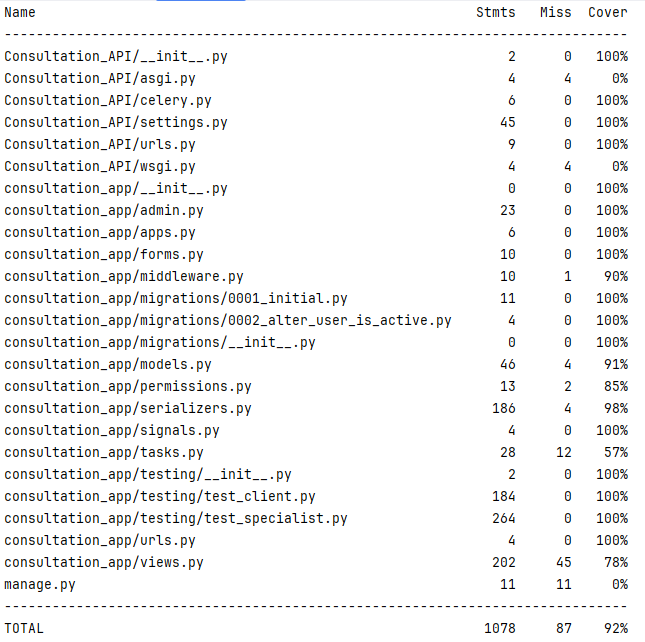
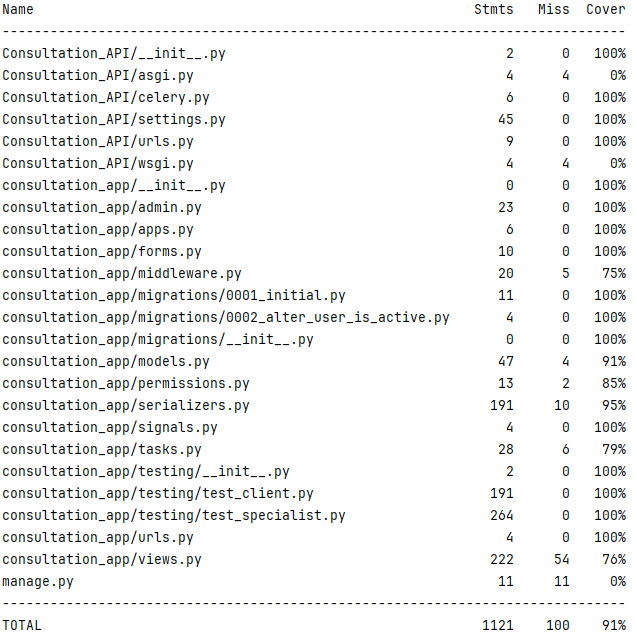
fixed the tests

Changed region(s): [[0.0, 0.0, 0.9843, 1.0], [0.3579, 0.5386, 0.3878, 0.5685], [0.3281, 0.2693, 0.3579, 0.2992]]

diff --git a/Consultation_API/consultation_app/testing/test_client.py b/Consultation_API/consultation_app/testing/test_client.py
@@ -122,7 +122,7 @@ class TestClientConsultationAPIView:
         response = authenticated_api_client.post(url, request_data)
 
         assert response.status_code == status.HTTP_400_BAD_REQUEST
-        assert response.data['message'] == 'Для данного слота уже существует подтверждённая консультация'
+        assert response.data['detail'] == 'Для данного слота уже существует подтверждённая консультация'
 
     def test_create_consultation_already_sent(self, user_client, authenticated_api_client, valid_slot):
         slot = Slot.objects.create(**valid_slot)
@@ -132,7 +132,7 @@ class TestClientConsultationAPIView:
         response = authenticated_api_client.post(url, request_data)
 
         assert response.status_code == status.HTTP_400_BAD_REQUEST
-        assert response.data['message'] == 'Вы уже отправили запрос на консультацию на эту дату'
+        assert response.data['detail'] == 'Вы уже отправили запрос на консультацию на эту дату'
 
     def test_create_consultation_invalid_date(self, authenticated_api_client, valid_slot):
         invalid_data = valid_slot.copy()
@@ -146,7 +146,7 @@ class TestClientConsultationAPIView:
         response = authenticated_api_client.post(url, request_data)
 
         assert response.status_code == status.HTTP_400_BAD_REQUEST
-        assert response.data['message'] == 'Дата и время консультации не могут быть ранее текущего времени'
+        assert response.data['detail'] == 'Дата и время консультации не могут быть ранее текущего времени'
 
     def test_create_consultation_invalid_id(self, authenticated_api_client):
         non_existent_slot_id = 9999
@@ -154,9 +154,8 @@ class TestClientConsultationAPIView:
         request_data = {'slot_id': non_existent_slot_id}
         response = authenticated_api_client.post(url, request_data)
 
-        assert response.status_code == status.HTTP_400_BAD_REQUEST
-        assert 'slot_id' in response.data
-        assert response.data['slot_id'][0] == 'Слота с таким id не существует'
+        assert response.status_code == status.HTTP_404_NOT_FOUND
+        assert response.data['detail'] == 'Слота с таким id не существует'
 
 
 @pytest.mark.django_db(transaction=True)
@@ -199,6 +198,8 @@ class TestClientConsultationListView:
 class TestCancelConsultationAPIView:
 
     def test_cancel_consultation_success(self, authenticated_api_client, consultation):
+        consultation.status = 'Accepted'
+        consultation.save()
         url = reverse('cancel-consultation')
         data = {
             'consultation_id': consultation.id,
@@ -213,6 +214,18 @@ class TestCancelConsultationAPIView:
         assert consultation.is_canceled is True
         assert consultation.cancel_comment == 'Some reason'
         assert consultation.cancel_reason_choice == 'Personal'
+
+    def test_cancel_consultation_not_accepted(self, authenticated_api_client, consultation):
+        url = reverse('cancel-consultation')
+        data = {
+            'consultation_id': consultation.id,
+            'cancel_comment': 'Some reason',
+            'cancel_reason': 'Personal'
+        }
+        response = authenticated_api_client.patch(url, data)
+
+        assert response.status_code == status.HTTP_400_BAD_REQUEST
+        assert response.data['detail'] == 'Можно отменить только принятую консультацию'
 
     def test_cancel_consultation_invalid_reason(self, authenticated_api_client, consultation):
         url = reverse('cancel-consultation')
@@ -248,10 +261,8 @@ class TestCancelConsultationAPIView:
 
         response = authenticated_api_client.patch(url, data)
 
-        assert response.status_code == status.HTTP_400_BAD_REQUEST
-        assert 'consultation_id' in response.data
-        assert response.data['consultation_id'][
-                   0] == 'Консультации с таким id не существует'
+        assert response.status_code == status.HTTP_404_NOT_FOUND
+        assert response.data['detail'] == 'Вашей консультации с таким id не существует'
 
     def test_cancel_consultation_invalid_client(self, authenticated_api_client, api_client, consultation):
         User = get_user_model()
@@ -271,8 +282,8 @@ class TestCancelConsultationAPIView:
 
         response = api_client.patch(url, data)
 
-        assert response.status_code == status.HTTP_403_FORBIDDEN
-        assert response.data['message'] == 'Вы не можете отменить эту консультацию, так как вы не являетесь её клиентом'
+        assert response.status_code == status.HTTP_404_NOT_FOUND
+        assert response.data['detail'] == 'Вашей консультации с таким id не существует'
 
     def test_cancel_consultation_not_client(self, authenticated_api_specialist, consultation):
         url = reverse('cancel-consultation')
@@ -286,6 +297,7 @@ class TestCancelConsultationAPIView:
         assert response.status_code == status.HTTP_403_FORBIDDEN
 
     def test_cancel_consultation_already_canceled(self, authenticated_api_client, consultation):
+        consultation.status = 'Accepted'
         consultation.is_canceled = True
         consultation.save()
 
@@ -298,4 +310,4 @@ class TestCancelConsultationAPIView:
         response = authenticated_api_client.patch(url, data)
 
         assert response.status_code == status.HTTP_400_BAD_REQUEST
-        assert response.data['message'] == 'Вы уже отменили консультацию'
+        assert response.data['detail'] == 'Вы уже отменили консультацию'

diff --git a/Consultation_API/consultation_app/testing/test_specialist.py b/Consultation_API/consultation_app/testing/test_specialist.py
@@ -285,7 +285,6 @@ class TestSpecialistConsultationListView:
 
 @pytest.mark.django_db
 class TestUpdateStatusConsultationAPIView:
-
     def test_update_status_success(self, authenticated_api_specialist, consultation, slot):
         url = reverse('update-status')
         data = {
@@ -321,8 +320,8 @@ class TestUpdateStatusConsultationAPIView:
         }
         response = authenticated_api_specialist.patch(url, data)
 
-        assert response.status_code == status.HTTP_400_BAD_REQUEST
-        assert 'consultation_id' in response.data
+        assert response.status_code == status.HTTP_404_NOT_FOUND
+        assert response.data['detail'] == 'Вашей консультации с таким id не существует'
 
     def test_update_status_non_specialist(self, authenticated_api_client, consultation):
         url = reverse('update-status')
@@ -367,8 +366,8 @@ class TestSlotUpdateAPIView:
         }
         response = authenticated_api_specialist.patch(url, data)
 
-        assert response.status_code == status.HTTP_400_BAD_REQUEST
-        assert response.data['message'] == 'Вашего слота с таким id не существует'
+        assert response.status_code == status.HTTP_404_NOT_FOUND
+        assert response.data['detail'] == 'Вашего слота с таким id не существует'
 
     def test_update_slot_missing_id(self, authenticated_api_specialist):
         url = reverse('update-slot')
@@ -379,7 +378,7 @@ class TestSlotUpdateAPIView:
         response = authenticated_api_specialist.patch(url, data)
 
         assert response.status_code == status.HTTP_400_BAD_REQUEST
-        assert response.data['message'] == 'Необходимо указать id слота'
+        assert response.data['detail'] == 'Необходимо указать id слота'
 
     def test_update_slot_invalid_specialist_username(self, authenticated_api_specialist, slot):
         url = reverse('update-slot')

diff --git a/Consultation_API/consultation_app/views.py b/Consultation_API/consultation_app/views.py
@@ -734,7 +734,7 @@ class SlotUpdateAPIView(APIView):
 
         if not slot:
             logger.warning(f'Slot with id={slot_id} is not exists')
-            return Response({'detail': 'Вашего слота с таким id не существует'}, status=status.HTTP_400_BAD_REQUEST)
+            return Response({'detail': 'Вашего слота с таким id не существует'}, status=status.HTTP_404_NOT_FOUND)
 
         serializer = SlotUpdateSerializer(slot, data=request.data, partial=True)
         if serializer.is_valid():
